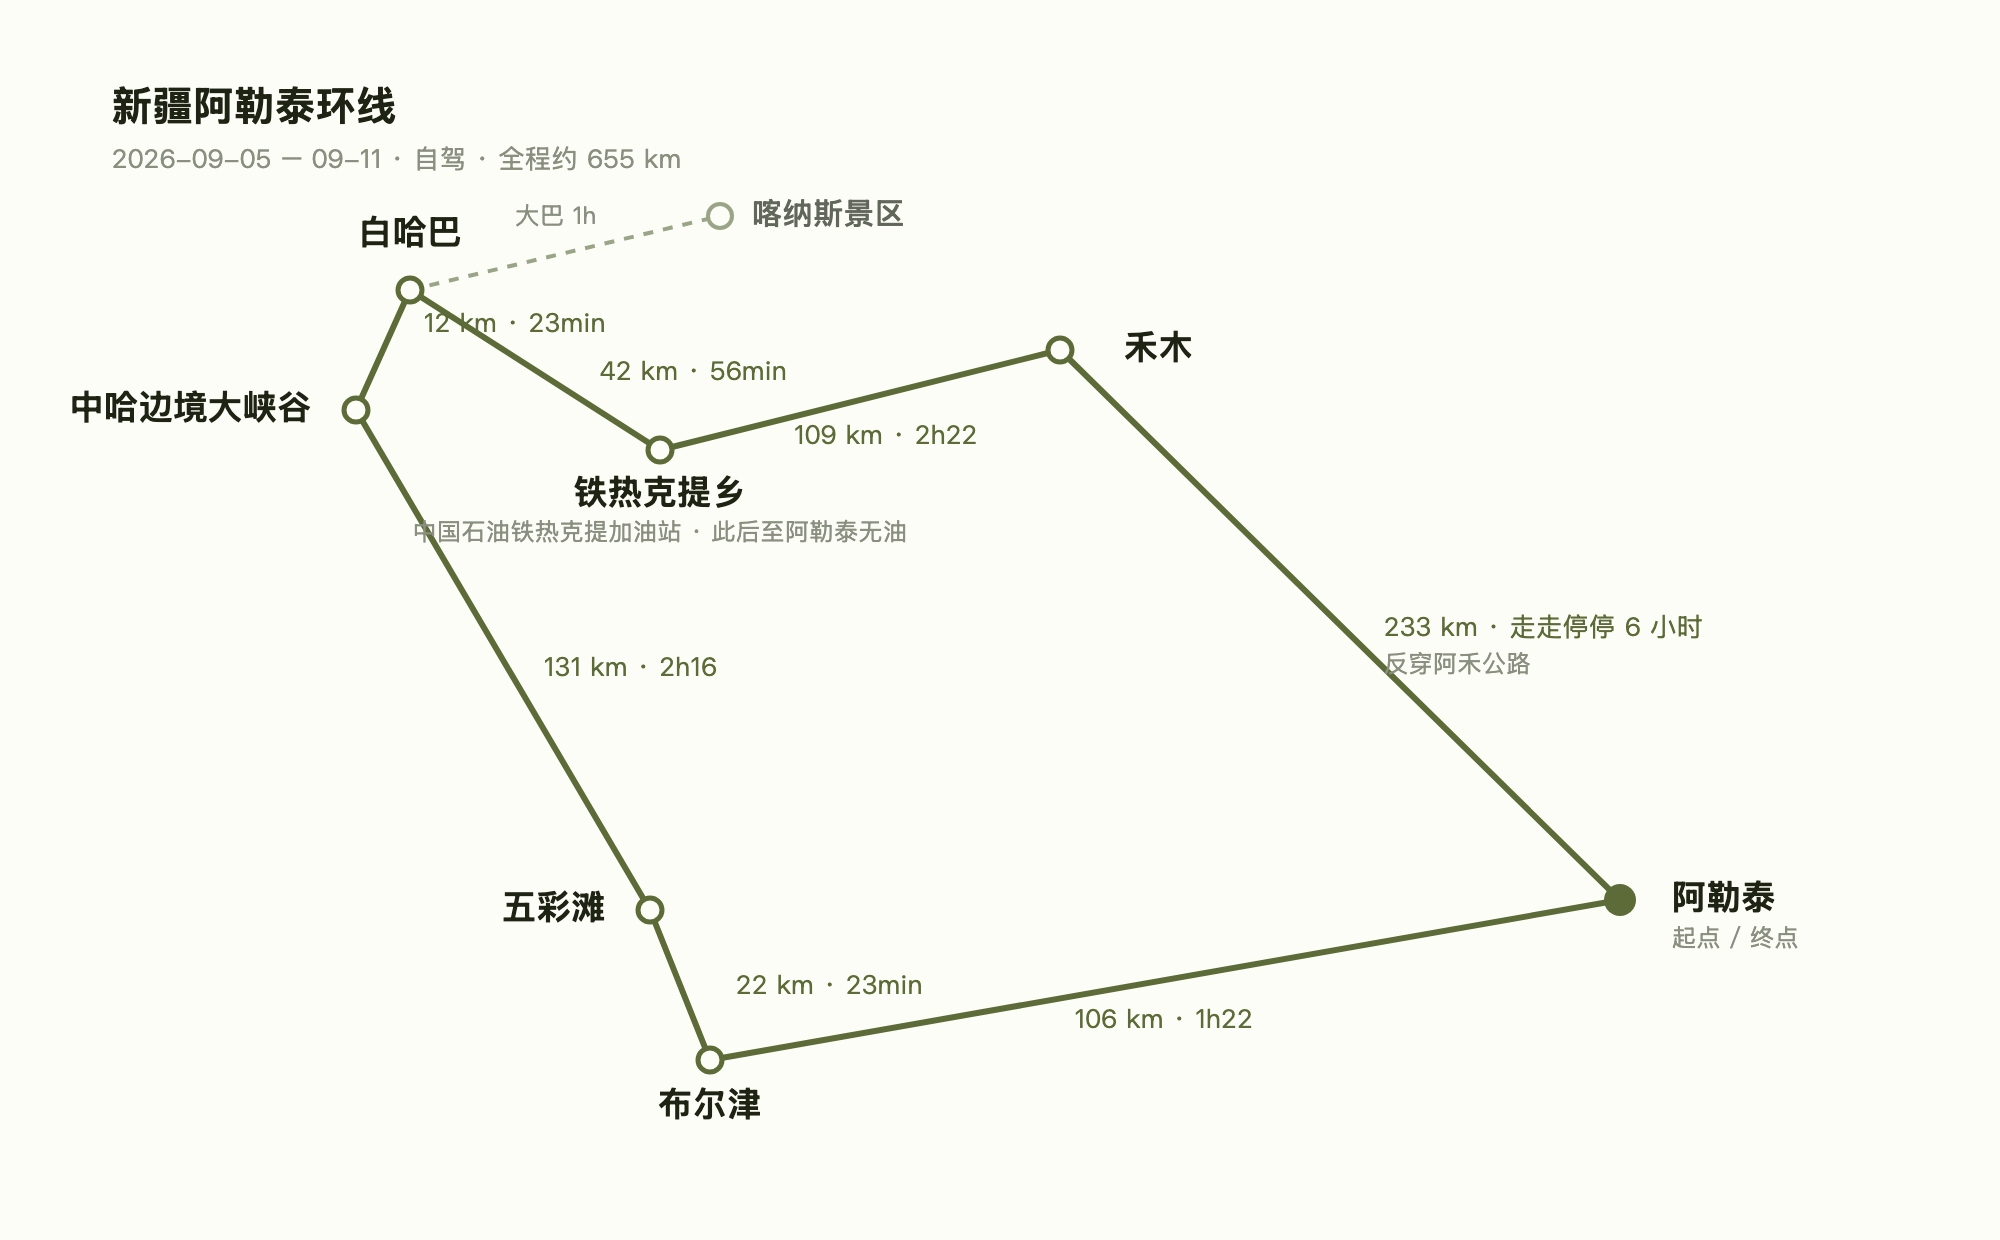
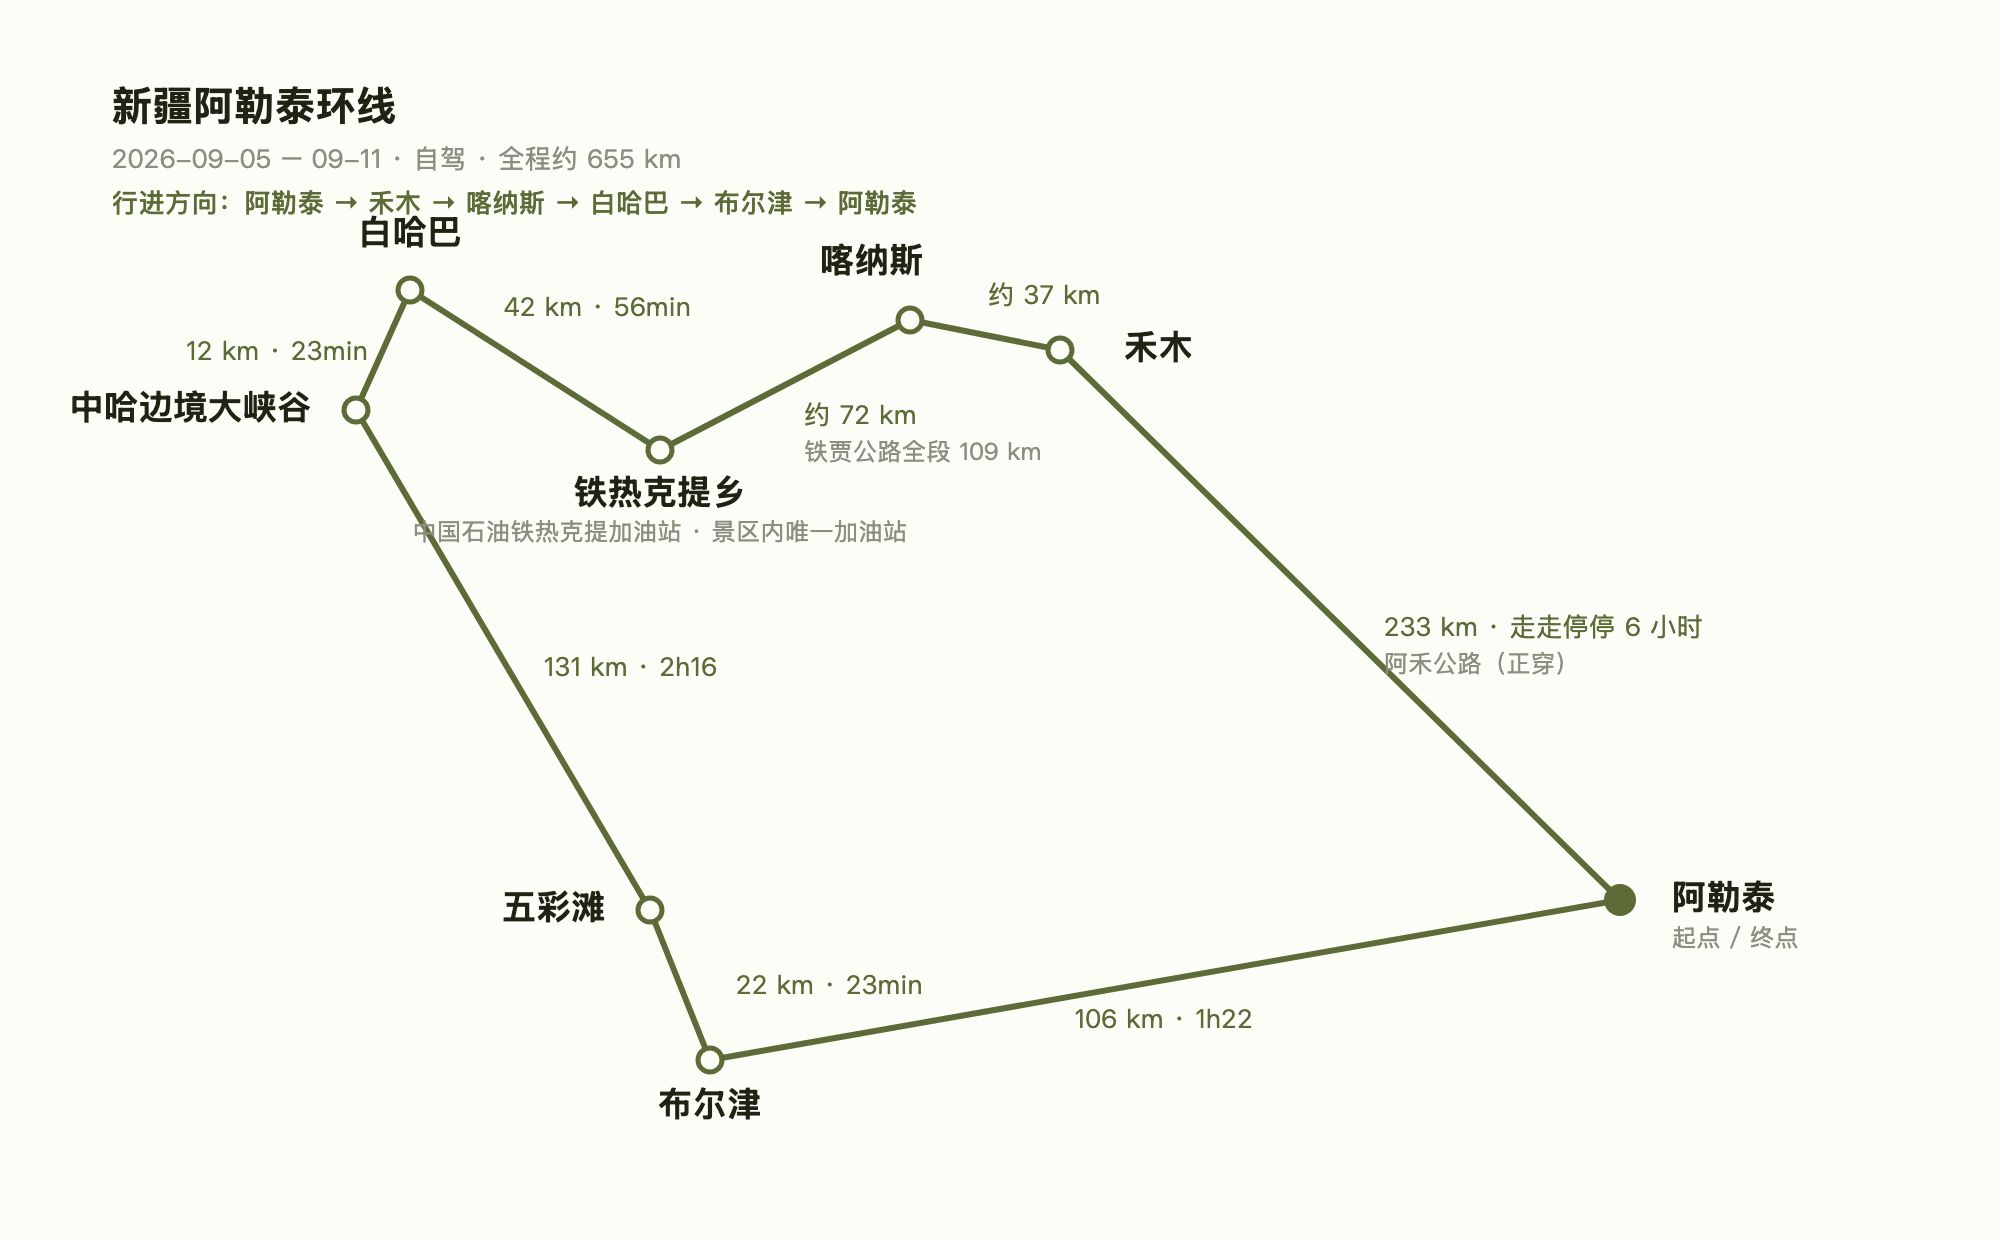
Run the Altay loop the other way round, to match the bookings
The hotels are booked Altay - Hemu - Kanas - Baihaba - Burqin - Altay,
which is the reverse of what the itinerary said. Flip the loop: Ahe road
is now driven outbound on 9.6 rather than back on 9.10, Kanas gets its
own night instead of being a bus trip from Baihaba, and the Tiejia road
splits across 9.7 and 9.8.

Two things fall out of the new direction. Burqin now comes after
Baihaba, so the border permit can't be picked up there — it has to be
done online or in Altay. And Wucaitan lands on an evening that ends in
Burqin, 22 km away, so it can finally wait for the sunset.

The diagram keeps its geometry; only the direction line, the Kanas stop
and the per-leg labels change.

diff --git a/lib/tours.js b/lib/tours.js
@@ -13,7 +13,7 @@
 // flexible[]  机动项：想做但还没定在哪天的事
 //             { title, note, window?, after? }
 //             after 填某天的 date，就插在时间线上那天之后；省略则排在全部
-//             日程之前。window 是可选的时间窗标签，如 "9.7 傍晚 / 9.8 清晨"。
+//             日程之前。window 是可选的时间窗标签，如 "9.8 傍晚 / 9.9 清晨"。
 // days[]      按天分组的行程
 //   label     Day N
 //   date      日期，如 "9.5"
@@ -30,13 +30,13 @@ export const tours = [
     title: "新疆阿勒泰环线",
     destination: "中国 新疆・阿勒泰",
     dates: "2026-09-05 – 2026-09-11",
-    status: "planning",
+    status: "booked",
     summary:
-      "阿勒泰进出的 7 天自驾环线，布尔津 — 白哈巴 — 喀纳斯 — 禾木，返程反穿阿禾公路。",
+      "阿勒泰进出的 7 天自驾环线，去程正穿阿禾公路直奔禾木，再经喀纳斯、白哈巴下到布尔津收尾。",
     notice: {
       title: "全程避免天黑开车",
       detail:
-        "这几天天黑大约在 20:40，越往后越早，到 9.11 前后约 20:00。所有当天的出发和到达时间都按天黑前抵达倒推。",
+        "这几天天黑大约在 20:40，越往后越早，到 9.11 前后约 20:00。所有当天的出发和到达时间都按天黑前抵达倒推。唯一的例外是 9.9 的五彩滩日落，看完只剩 22 km 好路回布尔津。",
     },
     map: {
       src: "/tour_guide/altay-route.png",
@@ -48,9 +48,9 @@ export const tours = [
     flexible: [
       {
         title: "巴特巴依观景台",
-        window: "9.7 傍晚 / 9.8 清晨",
-        after: "9.7",
-        note: "白哈巴连住两晚，看日落还是看晨雾都行，看天气再定。",
+        window: "9.8 傍晚 / 9.9 清晨",
+        after: "9.8",
+        note: "白哈巴只住一晚，看日落还是看晨雾只能二选一，看天气再定。",
       },
     ],
     days: [
@@ -58,126 +58,146 @@ export const tours = [
         label: "Day 1",
         date: "9.5",
         title: "落地阿勒泰",
-        stay: "阿勒泰市区",
+        stay: "阿勒泰 将军山度假酒店（¥570）",
         items: [
           "中午出发，晚上落地阿勒泰雪都机场",
           "在阿勒泰市区吃晚饭",
           "市区休息，不安排行程",
         ],
+        tips: [
+          "边防证要提前办：白哈巴和中哈边境大峡谷都需要，而这次布尔津排在白哈巴之后，办不上",
+          "线上先办，或落地阿勒泰当晚办好；实在来不及，铁热克提乡的边防站可以补",
+        ],
       },
       {
         label: "Day 2",
         date: "9.6",
-        title: "阿勒泰 → 布尔津 → 白哈巴",
-        stay: "白哈巴",
+        title: "阿勒泰 → 禾木（正穿阿禾公路）",
+        stay: "禾木 冬雪酒店（¥1180）／楚阿克山庄民宿（¥880）",
         legs: [
-          { from: "阿勒泰", to: "布尔津", distance: "106 km", duration: "1h22" },
-          { from: "布尔津", to: "五彩滩", distance: "22 km", duration: "23min" },
           {
-            from: "五彩滩",
-            to: "中哈边境大峡谷",
-            distance: "131 km",
-            duration: "2h16",
-          },
-          {
-            from: "中哈边境大峡谷",
-            to: "白哈巴游客停车场",
-            distance: "12 km",
-            duration: "23min",
+            from: "阿勒泰",
+            to: "禾木",
+            distance: "233 km",
+            duration: "地图 4h35 / 走走停停 6 小时",
           },
         ],
         items: [
-          "到布尔津吃午饭：黑走马（冷水活鱼、大盘土鸡）或 三羊抓饭",
-          "布尔津美食街上还有很多家做冷水鱼三道黑、一鱼两吃",
-          "网红酸奶店「小牛克恩」",
-          "喀纳斯塔桥打卡 —— 布尔津的景点，不是餐厅",
-          "进山前采购物资，推荐西瓜、老汉瓜等水果 —— 在新疆总吃肉要补维生素",
-          "下午出发，五彩滩快速打卡，不等日落",
-          "途经中哈边境大峡谷，可以打卡",
+          "出发前在阿勒泰加满油",
+          "采购物资，推荐西瓜、老汉瓜等水果 —— 在新疆总吃肉要补维生素",
+          "阿禾公路全程是观景公路，一路走走停停",
+          "傍晚抵达禾木，哈登平台看日落",
+          "晚上篝火晚会",
         ],
         tips: [
-          "避雷：红石榴餐厅不要去",
-          "前段路比较好开；经边防站办完边防证之后开始崎岖，很多路段在修路",
-          "不建议晚上开这一段 —— 午饭后出发到白哈巴还有约 2h40 的车，五彩滩不等日落就是为了留出这段的天光",
+          "地图显示四个半小时；走走停停拍照、中间服务区休息半小时，亲测实际需要 6 小时 —— 早上就得出发",
+          "正穿是大部分人走的方向，车比反穿多，起早能避开车流",
+          "阿勒泰出发就加满 —— 进景区后只有铁热克提乡一个加油站",
         ],
       },
       {
         label: "Day 3",
         date: "9.7",
-        title: "喀纳斯景区",
-        stay: "白哈巴",
+        title: "禾木 → 喀纳斯",
+        stay: "喀纳斯 8千5千帕假日酒店（¥680）",
+        legs: [
+          {
+            from: "禾木",
+            to: "喀纳斯（贾登峪换乘中心）",
+            distance: "约 37 km",
+            duration: "约 50min",
+          },
+        ],
         items: [
-          "白哈巴坐大巴约 1 小时到喀纳斯游客换乘中心",
-          "上午徒步三湾",
-          "下午登观鱼台、看喀纳斯湖",
-          "下午回白哈巴逛西北第一村，一下午足够",
+          "上午接着逛禾木村，不用赶",
+          "中午前后走铁贾公路前半段到贾登峪",
+          "换区间车进景区，下午徒步三湾",
+          "住在景区里，第二天早上还能再看一次喀纳斯湖",
         ],
         tips: [
-          "买两日进票，视情况决定是否走喀纳斯徒步路线",
-          "一天时间足够，并且不仓促",
+          "买两日进票，9.7 下午加 9.8 上午刚好用满",
+          "铁贾公路全段 109 km · 2h22，9.7 和 9.8 是把它拆成两段走，分段里程按导航为准",
         ],
       },
       {
         label: "Day 4",
         date: "9.8",
-        title: "白哈巴 → 禾木（铁贾公路）",
-        stay: "禾木",
+        title: "喀纳斯 → 白哈巴（铁贾公路后半段）",
+        stay: "白哈巴（暂定，还没订）",
         legs: [
           {
-            from: "白哈巴",
+            from: "喀纳斯（贾登峪）",
             to: "铁热克提乡",
-            distance: "42 km",
-            duration: "56min",
+            distance: "约 72 km",
+            duration: "约 1h30",
           },
           {
             from: "铁热克提乡",
-            to: "禾木",
-            distance: "109 km",
-            duration: "2h22",
+            to: "白哈巴",
+            distance: "42 km",
+            duration: "56min",
           },
         ],
-        options: {
-          note: "上午三选一，都是下午出发",
-          choices: [
-            { label: "回喀纳斯，用掉两日票的第二天" },
-            { label: "早点上路，禾木多半天休整" },
-            { label: "在白哈巴悠闲待着" },
-          ],
-        },
         items: [
-          "铁热克提乡加油、补给物资 —— 中国石油铁热克提加油站",
-          "走铁贾公路，地貌从低山怪石林一路变到高山草甸",
-          "下午抵达禾木村，休整",
+          "上午用掉两日票的第二天：登观鱼台、看喀纳斯湖",
+          "中午在铁热克提乡加油、补给 —— 中国石油铁热克提加油站",
+          "下午抵达白哈巴，逛西北第一村，一下午足够",
         ],
         tips: [
-          "铁热克提乡之后一直到回阿勒泰都没有加油站，务必加满",
-          "从贾登峪开始是盘山公路，山路十八弯，提前备好晕车药",
+          "铁热克提乡是景区里唯一的加油站，一直到下山进布尔津都没有第二个，务必加满",
+          "边防站就在铁热克提，边防证没提前办的在这里补",
+          "白哈巴这晚还没订，剩下的房越靠近旺季越难捡，早点定下来",
         ],
       },
       {
         label: "Day 5",
         date: "9.9",
-        title: "禾木村",
-        stay: "禾木",
-        items: ["白天游玩禾木村", "哈登平台看日落", "晚上篝火晚会"],
+        title: "白哈巴 → 中哈边境大峡谷 → 五彩滩 → 布尔津",
+        stay: "布尔津 白桦林锦假日酒店（¥880）",
+        legs: [
+          {
+            from: "白哈巴",
+            to: "中哈边境大峡谷",
+            distance: "12 km",
+            duration: "23min",
+          },
+          {
+            from: "中哈边境大峡谷",
+            to: "五彩滩",
+            distance: "131 km",
+            duration: "2h16",
+          },
+          { from: "五彩滩", to: "布尔津", distance: "22 km", duration: "23min" },
+        ],
+        items: [
+          "上午从白哈巴下山，途经中哈边境大峡谷打卡",
+          "傍晚到五彩滩，这天可以踏踏实实等日落",
+          "晚饭在布尔津：黑走马（冷水活鱼、大盘土鸡）或 三羊抓饭",
+          "布尔津美食街上还有很多家做冷水鱼三道黑、一鱼两吃",
+          "网红酸奶店「小牛克恩」",
+        ],
+        tips: [
+          "避雷：红石榴餐厅不要去",
+          "白哈巴到边防站一带路况崎岖、很多路段在修路，早点出发",
+          "全程唯一可以看完日落再走的一段 —— 五彩滩到布尔津只有 22 km、23 分钟的好路",
+        ],
       },
       {
         label: "Day 6",
         date: "9.10",
-        title: "禾木 → 阿勒泰市区（反穿阿禾公路）",
-        stay: "阿勒泰市区",
+        title: "布尔津 → 阿勒泰市区",
+        stay: "阿勒泰 将军山度假酒店（¥570）",
         legs: [
-          {
-            from: "禾木",
-            to: "阿勒泰市区",
-            distance: "233 km",
-            duration: "地图 4h35 / 走走停停 6 小时",
-          },
+          { from: "布尔津", to: "阿勒泰", distance: "106 km", duration: "1h22" },
         ],
-        items: ["反穿阿禾公路返程，全程是观景公路"],
+        items: [
+          "上午在布尔津补觉，不用早起",
+          "喀纳斯塔桥打卡 —— 布尔津的景点，不是餐厅",
+          "下午开回阿勒泰，顺路把油加回去",
+          "阿勒泰市区休整",
+        ],
         tips: [
-          "地图显示四个半小时；走走停停拍照、中间服务区休息半小时，亲测实际需要 6 小时",
-          "反穿的好处是车少 —— 大部分人选择从阿勒泰直奔禾木",
+          "这天最松：106 km 一个半小时，想在布尔津多待半天完全来得及",
         ],
       },
       {

diff --git a/scripts/altay-route.html b/scripts/altay-route.html
@@ -8,7 +8,8 @@
     --screenshot=public/tour_guide/altay-route.png \
     "file://$PWD/scripts/altay-route.html"
 
-  点位是按实际方位摆的示意图，不是等比例地图。
+  点位是按实际方位摆的示意图，不是等比例地图。环线本身是闭合的，
+  走向由顶部那行「行进方向」决定 —— 换方向时改文字和各段标注即可，点位不动。
 -->
 <html lang="zh">
 <head><meta charset="utf-8">
@@ -16,11 +17,11 @@
   html,body { margin:0; padding:0; background:#FDFDF7; }
   svg { display:block; font-family:"PingFang SC","Helvetica Neue",sans-serif; }
   .stop  { font-size:17px; font-weight:600; fill:#1F2314; }
-  .aside { font-size:15px; font-weight:500; fill:#62675B; }
   .leg   { font-size:13px; fill:#5C6B38; }
   .hint  { font-size:12px; fill:#8A8F80; }
   .title { font-size:20px; font-weight:600; fill:#1F2314; }
   .sub   { font-size:13px; fill:#8A8F80; }
+  .dir   { font-size:13px; font-weight:500; fill:#5C6B38; }
 </style></head>
 <body>
 <svg width="1000" height="620" viewBox="0 0 1000 620" xmlns="http://www.w3.org/2000/svg">
@@ -28,19 +29,13 @@
 
   <text class="title" x="56" y="60">新疆阿勒泰环线</text>
   <text class="sub"   x="56" y="84">2026-09-05 – 09-11 · 自驾 · 全程约 655 km</text>
+  <text class="dir"   x="56" y="106">行进方向：阿勒泰 → 禾木 → 喀纳斯 → 白哈巴 → 布尔津 → 阿勒泰</text>
 
   <!-- 环线 -->
   <polyline
-    points="810,450 355,530 325,455 178,205 205,145 330,225 530,175 810,450"
+    points="810,450 355,530 325,455 178,205 205,145 330,225 455,160 530,175 810,450"
     fill="none" stroke="#5C6B38" stroke-width="3"
     stroke-linejoin="round" stroke-linecap="round"/>
-
-  <!-- 喀纳斯：从白哈巴坐大巴进景区，不是自驾段，用虚线区分 -->
-  <line x1="205" y1="145" x2="360" y2="108"
-        stroke="#9AA487" stroke-width="2" stroke-dasharray="5 5"/>
-  <circle cx="360" cy="108" r="6" fill="#FDFDF7" stroke="#9AA487" stroke-width="2"/>
-  <text class="aside" x="376" y="108" text-anchor="start" dominant-baseline="middle">喀纳斯景区</text>
-  <text class="hint"  x="278" y="112" text-anchor="middle">大巴 1h</text>
 
   <!-- 途经点 -->
   <circle cx="355" cy="530" r="6" fill="#FDFDF7" stroke="#5C6B38" stroke-width="2.5"/>
@@ -48,6 +43,7 @@
   <circle cx="178" cy="205" r="6" fill="#FDFDF7" stroke="#5C6B38" stroke-width="2.5"/>
   <circle cx="205" cy="145" r="6" fill="#FDFDF7" stroke="#5C6B38" stroke-width="2.5"/>
   <circle cx="330" cy="225" r="6" fill="#FDFDF7" stroke="#5C6B38" stroke-width="2.5"/>
+  <circle cx="455" cy="160" r="6" fill="#FDFDF7" stroke="#5C6B38" stroke-width="2.5"/>
   <circle cx="530" cy="175" r="6" fill="#FDFDF7" stroke="#5C6B38" stroke-width="2.5"/>
   <!-- 起点 / 终点 -->
   <circle cx="810" cy="450" r="8" fill="#5C6B38"/>
@@ -58,18 +54,21 @@
   <text class="stop" x="303" y="455" text-anchor="end" dominant-baseline="middle">五彩滩</text>
   <text class="stop" x="156" y="205" text-anchor="end" dominant-baseline="middle">中哈边境大峡谷</text>
   <text class="stop" x="205" y="122" text-anchor="middle">白哈巴</text>
+  <text class="stop" x="436" y="136" text-anchor="middle">喀纳斯</text>
   <text class="stop" x="330" y="252" text-anchor="middle">铁热克提乡</text>
-  <text class="hint" x="330" y="270" text-anchor="middle">中国石油铁热克提加油站 · 此后至阿勒泰无油</text>
+  <text class="hint" x="330" y="270" text-anchor="middle">中国石油铁热克提加油站 · 景区内唯一加油站</text>
   <text class="stop" x="562" y="175" text-anchor="start" dominant-baseline="middle">禾木</text>
 
   <!-- 各段里程 -->
   <text class="leg" x="582" y="514" text-anchor="middle">106 km · 1h22</text>
   <text class="leg" x="368" y="497" text-anchor="start">22 km · 23min</text>
   <text class="leg" x="272" y="338" text-anchor="start">131 km · 2h16</text>
-  <text class="leg" x="212" y="166" text-anchor="start">12 km · 23min</text>
-  <text class="leg" x="300" y="190" text-anchor="start">42 km · 56min</text>
-  <text class="leg" x="443" y="222" text-anchor="middle">109 km · 2h22</text>
+  <text class="leg" x="184" y="180" text-anchor="end">12 km · 23min</text>
+  <text class="leg" x="252" y="158" text-anchor="start">42 km · 56min</text>
+  <text class="leg" x="402" y="212" text-anchor="start">约 72 km</text>
+  <text class="leg" x="494" y="152" text-anchor="start">约 37 km</text>
+  <text class="hint" x="402" y="230" text-anchor="start">铁贾公路全段 109 km</text>
   <text class="leg" x="692" y="318" text-anchor="start">233 km · 走走停停 6 小时</text>
-  <text class="hint" x="692" y="336" text-anchor="start">反穿阿禾公路</text>
+  <text class="hint" x="692" y="336" text-anchor="start">阿禾公路（正穿）</text>
 </svg>
 </body></html>
